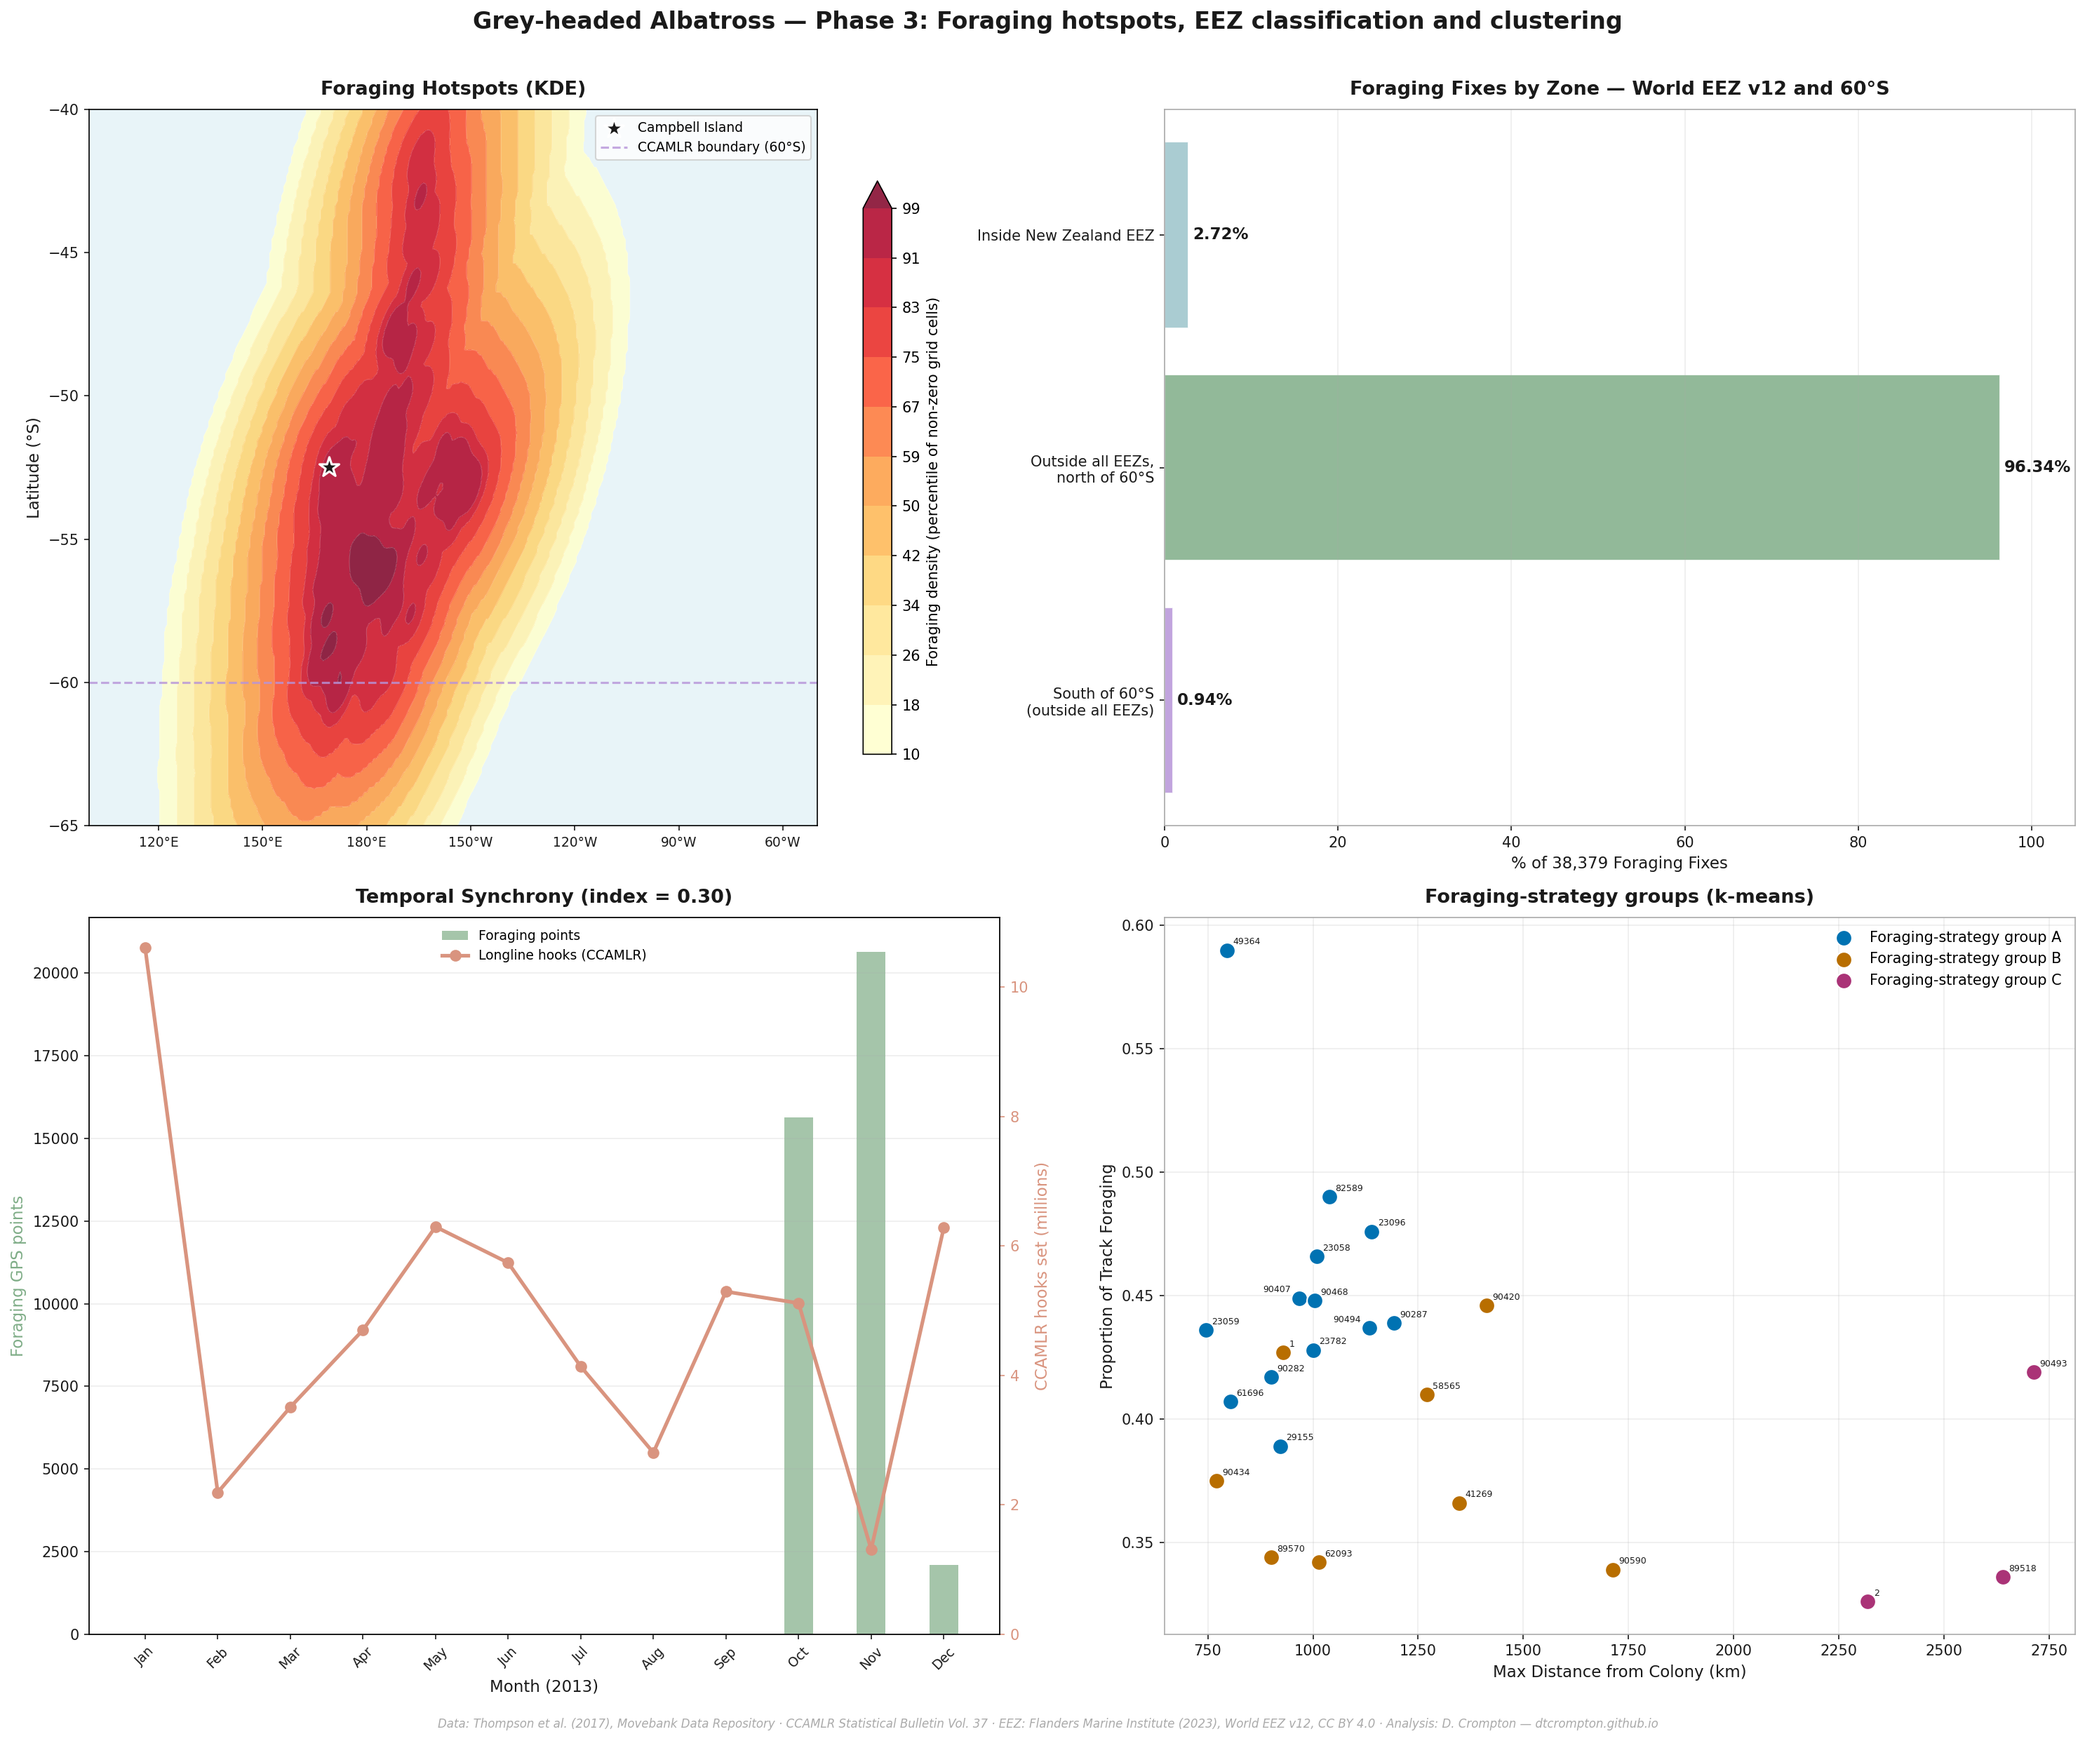
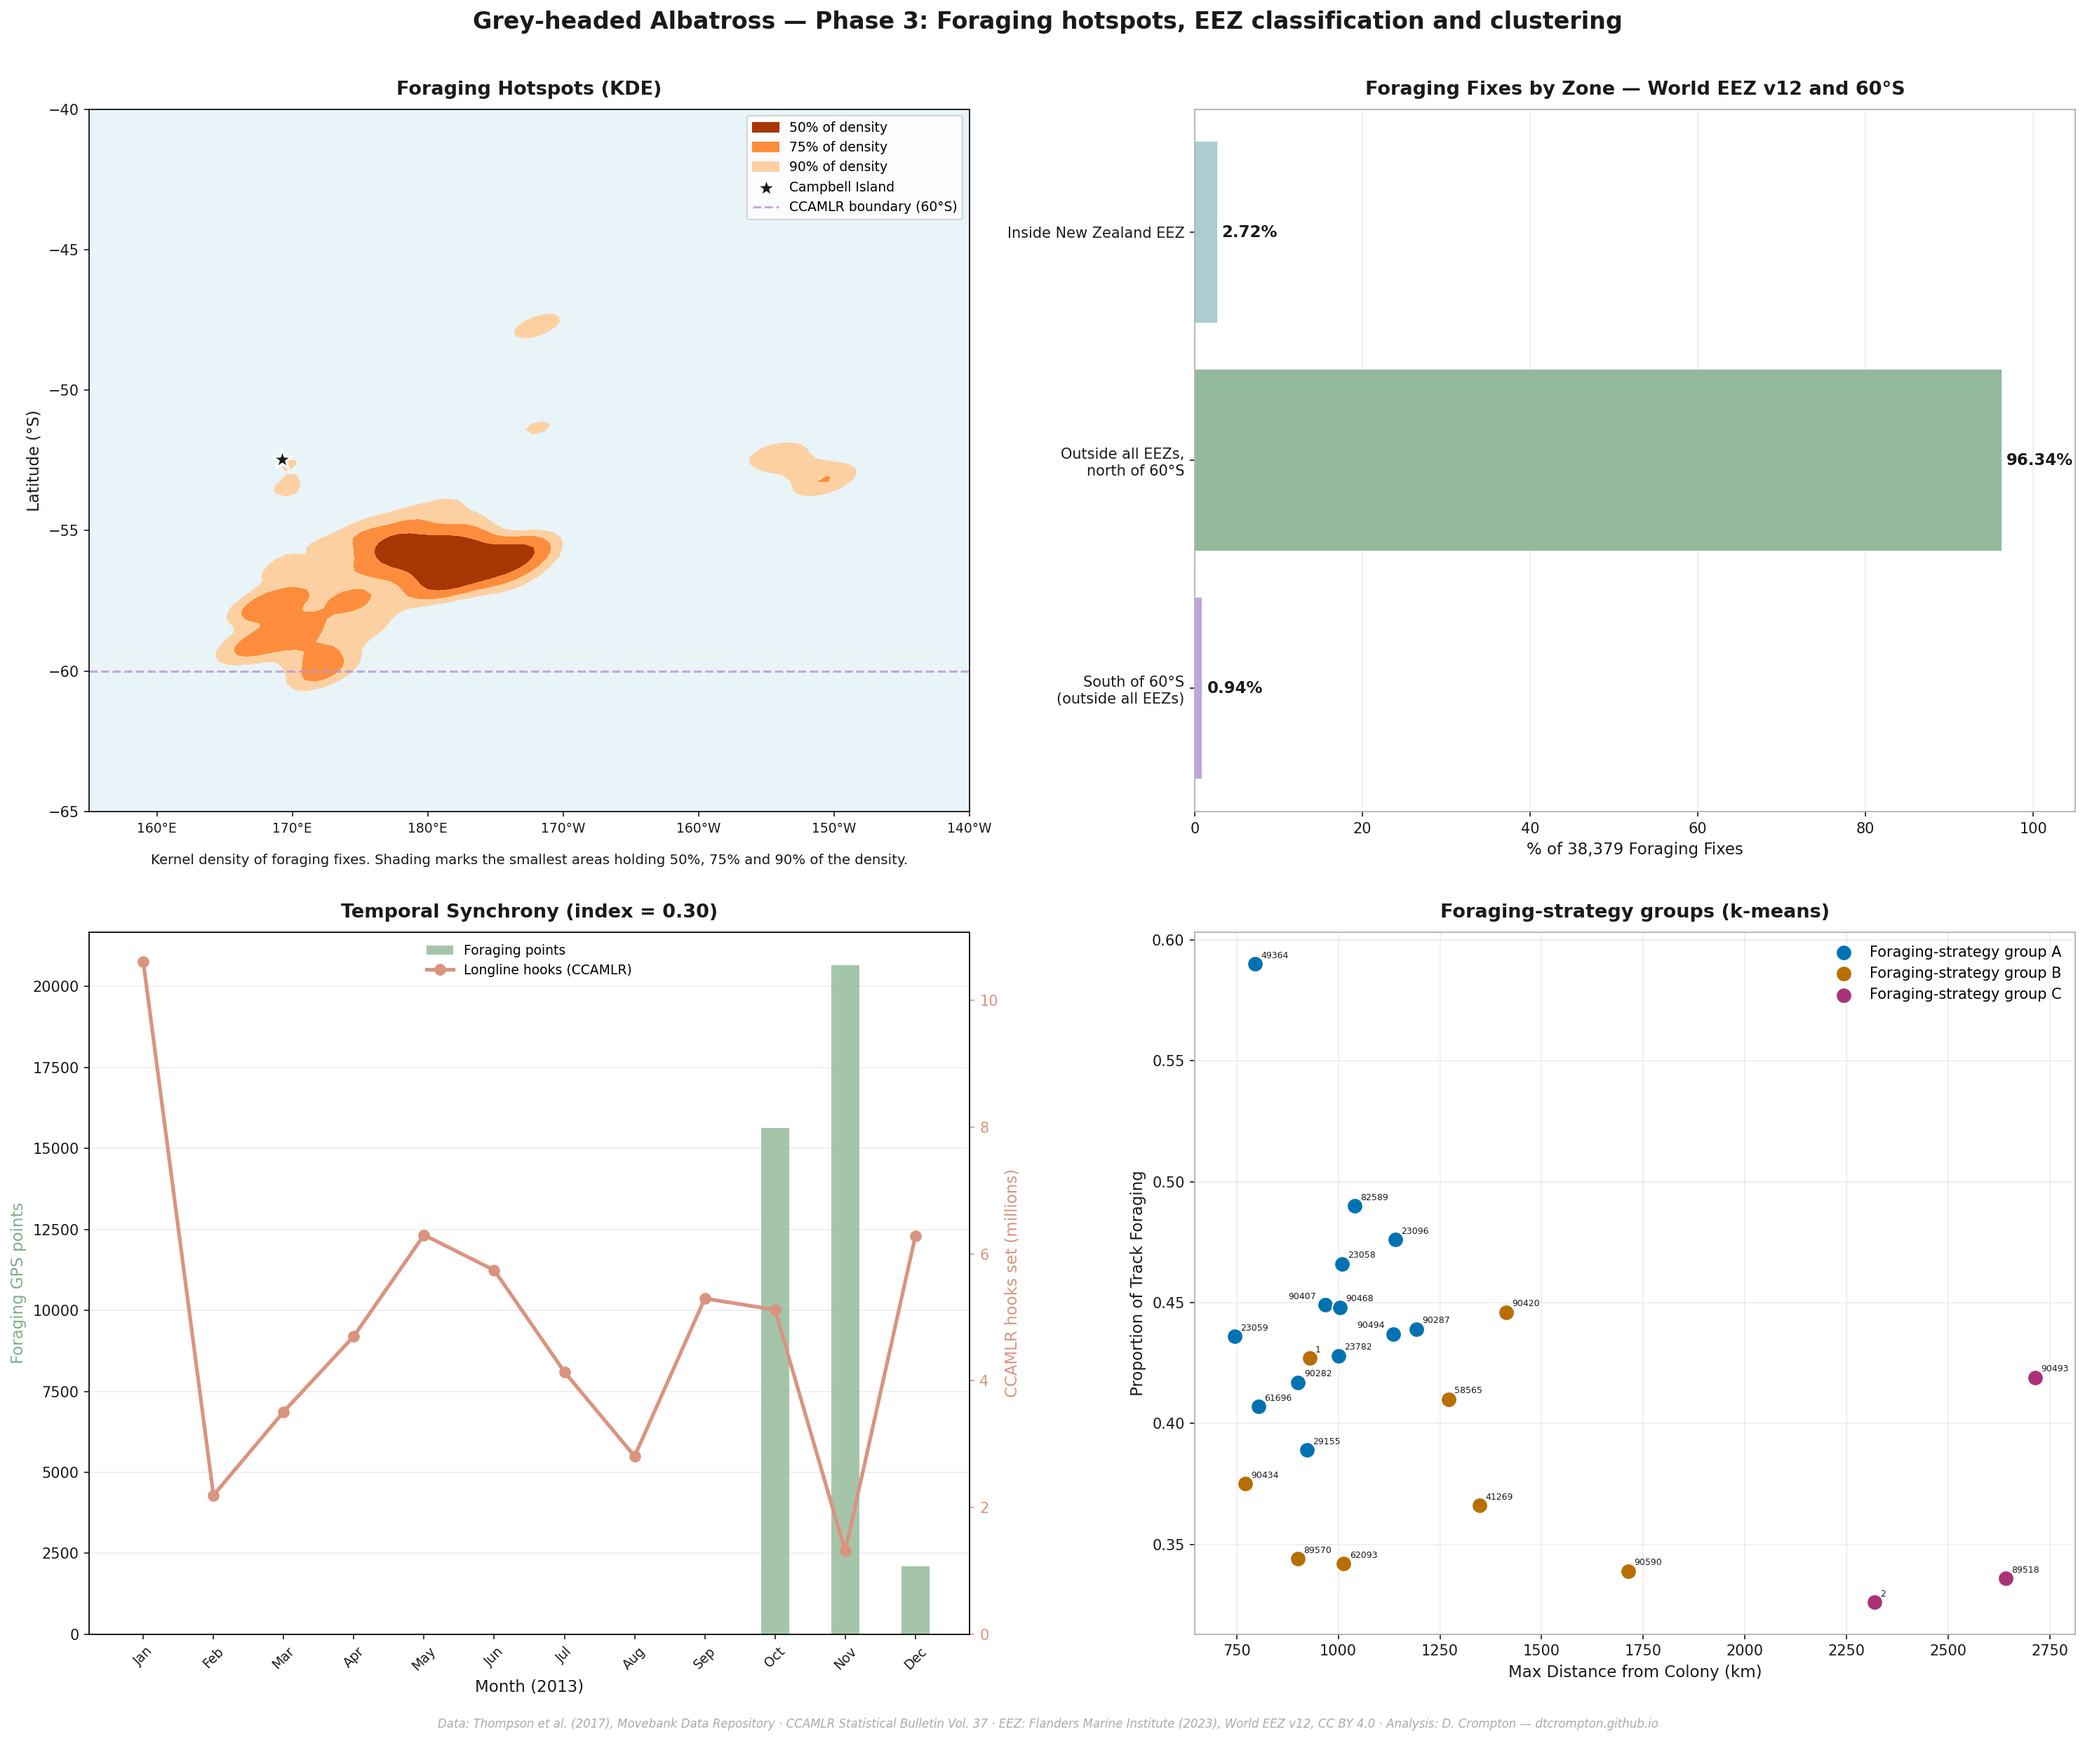
Show Phase 3 KDE panel as density-mass contours with a caption

diff --git a/python/phase3_conservation_risk.py b/python/phase3_conservation_risk.py
@@ -19,6 +19,7 @@ import pandas as pd
 import numpy as np
 import matplotlib.pyplot as plt
 import matplotlib.colors as mcolors
+import matplotlib.patches as mpatches
 from matplotlib.ticker import FuncFormatter
 from pathlib import Path
 from scipy.stats import gaussian_kde
@@ -304,17 +305,21 @@ month_names = ['Jan','Feb','Mar','Apr','May','Jun',
 # --- Panel 1: KDE foraging hotspot map ---
 ax1 = fig.add_subplot(2, 2, 1, facecolor='#e8f4f8')
 
-# Convert back for plotting: longitudes > 180 → subtract 360
-# Plot KDE as filled contours
-level_percentiles = np.linspace(10, 99, 12)
-levels = np.percentile(ZZ[ZZ > 0], level_percentiles)
-# Display only: extend='max' fills the densest area above the top level, and one colour
-# step per level gives a visible gradient across levels that span many orders of magnitude
-cf = ax1.contourf(LON_MESH, LAT_MESH, ZZ, levels=levels,
-                  cmap='YlOrRd', alpha=0.85, extend='max',
-                  norm=mcolors.BoundaryNorm(levels, ncolors=256, extend='max'))
-ax1.contour(LON_MESH, LAT_MESH, ZZ, levels=levels,
-            colors='white', alpha=0.3, linewidths=0.5)
+# Highest-density regions, for display only: the smallest real-world areas holding each
+# share of the density. ZZ is per square degree, so a cell's mass is ZZ x its degree area.
+# Its real-world area scales with cos(latitude), so cells are ranked by mass per unit area.
+cell_mass = ZZ * (lon_grid[1] - lon_grid[0]) * (lat_grid[1] - lat_grid[0])
+mass_per_area = ZZ / np.cos(np.radians(LAT_MESH))
+rank_order = np.argsort(mass_per_area.ravel())[::-1]
+ranked_values = mass_per_area.ravel()[rank_order]
+cumulative_mass = np.cumsum(cell_mass.ravel()[rank_order]) / cell_mass.sum()
+
+HDR_COLOURS = {90: '#FDD0A2', 75: '#FD8D3C', 50: '#A63603'}  # one hue, darkest for 50%
+hdr_levels = [ranked_values[np.searchsorted(cumulative_mass, share / 100)]
+              for share in HDR_COLOURS]
+ax1.contourf(LON_MESH, LAT_MESH, mass_per_area,
+             levels=hdr_levels + [mass_per_area.max() * 1.01],
+             colors=list(HDR_COLOURS.values()))
 
 # Campbell Island (in 0-360 space it's at 169°)
 ax1.scatter(COLONY_LON, COLONY_LAT, c=DARK_TEXT, s=200, marker='*',
@@ -326,21 +331,23 @@ ax1.axhline(y=-60, color=MAUVE, linestyle='--', linewidth=1.5,
             label='CCAMLR boundary (60°S)', alpha=0.8)
 
 # Fix x-axis tick labels: convert 0-360 back to ±180 for display
-xticks = [120, 150, 180, 210, 240, 270, 300]
+xticks = [160, 170, 180, 190, 200, 210, 220]
 xlabels = [f'{t}°E' if t <= 180 else f'{360-t}°W' for t in xticks]
+ax1.set_xlim(155, 220)  # display only: the KDE grid is unchanged
 ax1.set_xticks(xticks)
 ax1.set_xticklabels(xlabels, fontsize=9, color=DARK_TEXT)
 ax1.set_ylabel('Latitude (°S)', fontsize=11, color=DARK_TEXT)
 ax1.set_title('Foraging Hotspots (KDE)', fontsize=13,
               fontweight='bold', color=DARK_TEXT, pad=10)
-ax1.legend(fontsize=9, frameon=True, framealpha=0.8, loc='upper right')
+hdr_handles = [mpatches.Patch(color=HDR_COLOURS[share], label=f'{share}% of density')
+               for share in (50, 75, 90)]
+ax1.legend(handles=hdr_handles + ax1.get_legend_handles_labels()[0],
+           fontsize=9, frameon=True, framealpha=0.8, loc='upper right')
 ax1.tick_params(colors=DARK_TEXT)
-
-# The levels span about 250 orders of magnitude, so no single scale can label them
-# (it printed 0.000 repeatedly). Label each level by the percentile that defines it.
-cb = plt.colorbar(cf, ax=ax1, label='Foraging density (percentile of non-zero grid cells)', shrink=0.8)
-cb.set_ticks(levels)
-cb.set_ticklabels([f'{p:.0f}' for p in level_percentiles])
+ax1.text(0.5, -0.075,
+         'Kernel density of foraging fixes. Shading marks the smallest areas '
+         'holding 50%, 75% and 90% of the density.',
+         transform=ax1.transAxes, ha='center', fontsize=9.5, color=DARK_TEXT)
 
 # --- Panel 2: Management zone breakdown ---
 ax2 = fig.add_subplot(2, 2, 2, facecolor='white')
@@ -439,7 +446,7 @@ fig.text(
     ha='center', fontsize=8, color=MID_GREY, style='italic'
 )
 
-plt.tight_layout()
+plt.tight_layout(h_pad=3)  # room for the caption under the KDE panel
 plt.savefig('outputs/figures/phase3_risk_analysis.png', dpi=150,
             bbox_inches='tight', facecolor='white')
 print("  ✓ Saved: outputs/figures/phase3_risk_analysis.png")
